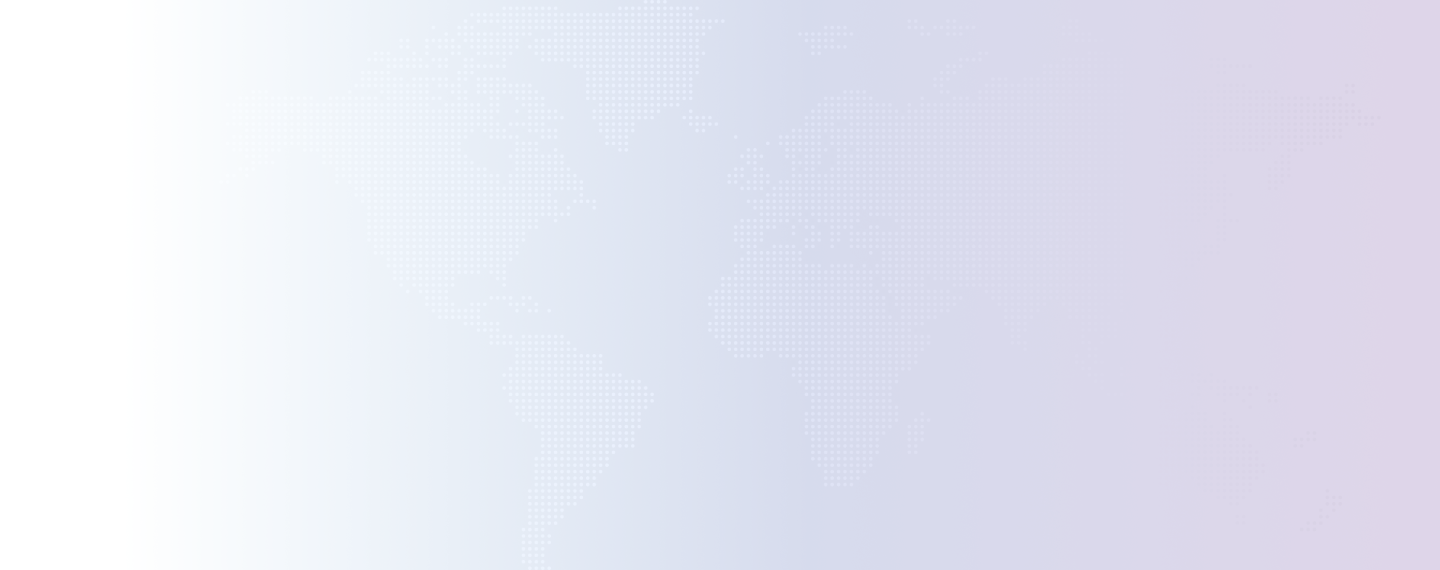
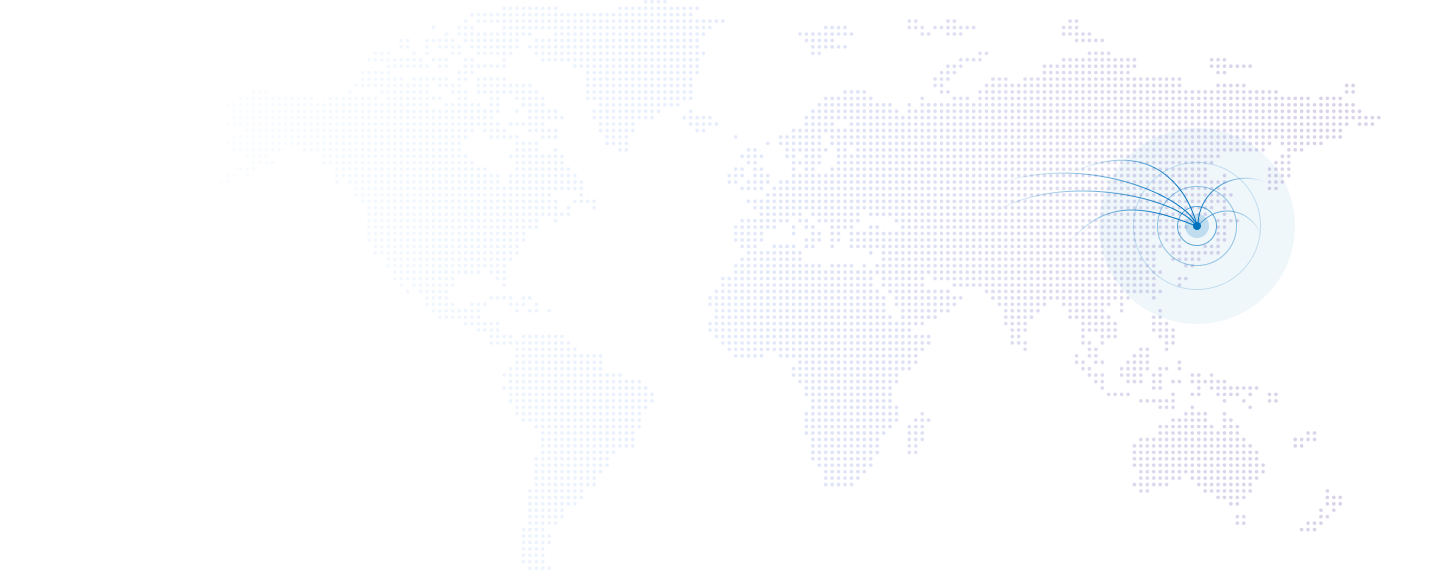
lndg

diff --git a/src/blocks/modules/Копия sc-integr/sc-integr.html b/src/blocks/modules/Копия sc-integr/sc-integr.html
@@ -36,13 +36,11 @@
            <div class="fnt-lc--17 fnt--wh mb16">Door to Door delivery is the most common and convenient way of shipment for the customer. In this case the customer is free of all the arrangement related with the sea freight container shipment. We are in charge of all the process beginning with container loading, delivery to the port, arriving at destination.</div>
             <div class="fnt-lc--17 fnt--wh mb16">One of the most important part in the process is storage, consolidation and inland transportation of your cargo, Door to door delivery is most of all convenience and speed of the process. We will provide you with all required documentation support in every step of the process. We also provide FIATA bill of lading issuance.</div>
             </div>
-            
+            <div class="sc-integr__img">
+                <img class="sc-integr__car" src="/img/car.png">
+                <img class="sc-integr__cargo" src="/img/cargo.png">
+            </div>
             </div> 
         </div>
-        <div class="sc-integr__img">
-                <div class="sc-integr__blank"></div>
-                <div class="sc-integr__car"><img src="/img/car.png"></div>
-                
-            </div>
     </section>
 </article>

diff --git a/src/blocks/modules/sc-integr/sc-integr.scss b/src/blocks/modules/sc-integr/sc-integr.scss
@@ -27,24 +27,49 @@
 		background: linear-gradient(90deg, #0073BE 39.17%, rgba(0, 115, 190, 0) 99.03%), #00171F;
 		padding: 56px 0px;
 		position: relative;
-		height: 435px;
+		min-height: 435px;
 	}
 	&__tx {
 		@include col-ib();
-		@include size(9);
+		@include size(8.5);
+
+
 	}
 	&__img {
-		width: 466px;
-		height: 160px;
-		position: absolute;
-		right: -200px;
+		width: 100%;
+    height: 100%;
+    position: absolute;
+    top: 0;
+    display: flex;
+
+  //   &:before {
+  //   	content: '';
+  //   	flex: 1;
+  //   }
+		// &:after{
+		// 	content: ''
+		// 	background-size: cover;
+		// 	max-width: 466px;
+		// 	max-height: 351px;
+		// 	// position: absolute;
+		// 	// right: -200px;
+		// 	background-image: url(#{$imgFolder}car.png)
+		// }
+		
+	}
+
+	&__blank {
+		display: inline-block;
+    	vertical-align: top;
+    	width: calc(74%);
 	}
 	&__car {
-		position: absolute;
-		width: 466px;
-		height: 280px;
-
-		right: 40px;
+		    display: inline-block;
+    		vertical-align: top;
+    		width: calc(26%);
+    		margin-right: 40px;
+    		margin-left: 20px;
+    		margin: auto 40px auto 0;
 	}
 	&__cargo {
 		position: absolute;

diff --git a/src/blocks/modules/Копия sc-integr/sc-integr.scss b/src/blocks/modules/Копия sc-integr/sc-integr.scss
@@ -1,0 +1,63 @@
+.sc-integr {
+	&__inf{
+		margin: 80px 0px;
+	}
+
+	&__ml {
+		margin-left: 96px;
+	}
+	
+	&__serv-itm {
+		@include col();
+		@include size(5.45);
+		&:nth-last-child(-n+2) {
+			border-bottom: none;	
+		}
+		
+	}
+
+	&__cargo-itm {
+		@include col();
+		@include size(5.45);
+
+		
+	}
+
+	&__dtd {
+		background: linear-gradient(90deg, #0073BE 39.17%, rgba(0, 115, 190, 0) 99.03%), #00171F;
+		padding: 56px 0px;
+		position: relative;
+		height: 435px;
+	}
+	&__tx {
+		@include col-ib();
+		@include size(9);
+	}
+	&__img {
+		width: 466px;
+		height: 160px;
+		position: absolute;
+		right: -200px;
+	}
+	&__car {
+		position: absolute;
+		width: 466px;
+		height: 280px;
+
+		right: 40px;
+	}
+	&__cargo {
+		position: absolute;
+		width: 209px;
+		height: 161px;
+		top: 190px;
+	}
+
+	&__wr {
+		display: flex;
+	}
+
+	&__itm {
+		position: relative;
+	}
+}

diff --git a/gulp-tasks/smart-grid.js b/gulp-tasks/smart-grid.js
@@ -12,7 +12,7 @@ gulp.task("smart-grid", (cb) => {
         mobileFirst: false,
         container: {
         maxWidth: "1188px",
-        fields: "30px"
+        fields: "42px"
         },
         breakPoints: {
 
@@ -22,11 +22,11 @@ gulp.task("smart-grid", (cb) => {
         },
         sm: {
             width: "768px",
-            fields: "15px"
+            fields: "36px"
         },
         xs: {
             width: "692px",
-            fields: "15px"
+            fields: "32px"
         }
         }
     });

diff --git a/src/blocks/modules/sc-inter/sc-inter.scss b/src/blocks/modules/sc-inter/sc-inter.scss
@@ -1,6 +1,8 @@
 .sc-inter {
 	background-image: url(#{$imgFolder}img-inter-back.png);
-    background-size: cover;
+    background-size: 1440px 570px;
+	background-repeat: no-repeat;
+	background-position: 0px 178px;
 	&__inf {
 		height: 801px;
 		padding-top: 80px;
@@ -8,12 +10,12 @@
 	}
 	&__ocean-fr {
 		@include col();
-        @include size(6);
+        @include size(5);
 	}
 
 	&__advant {
 		@include col();
-        @include size(6);
+        @include size(5.3);
 	}
 
 	&__check-blk {
